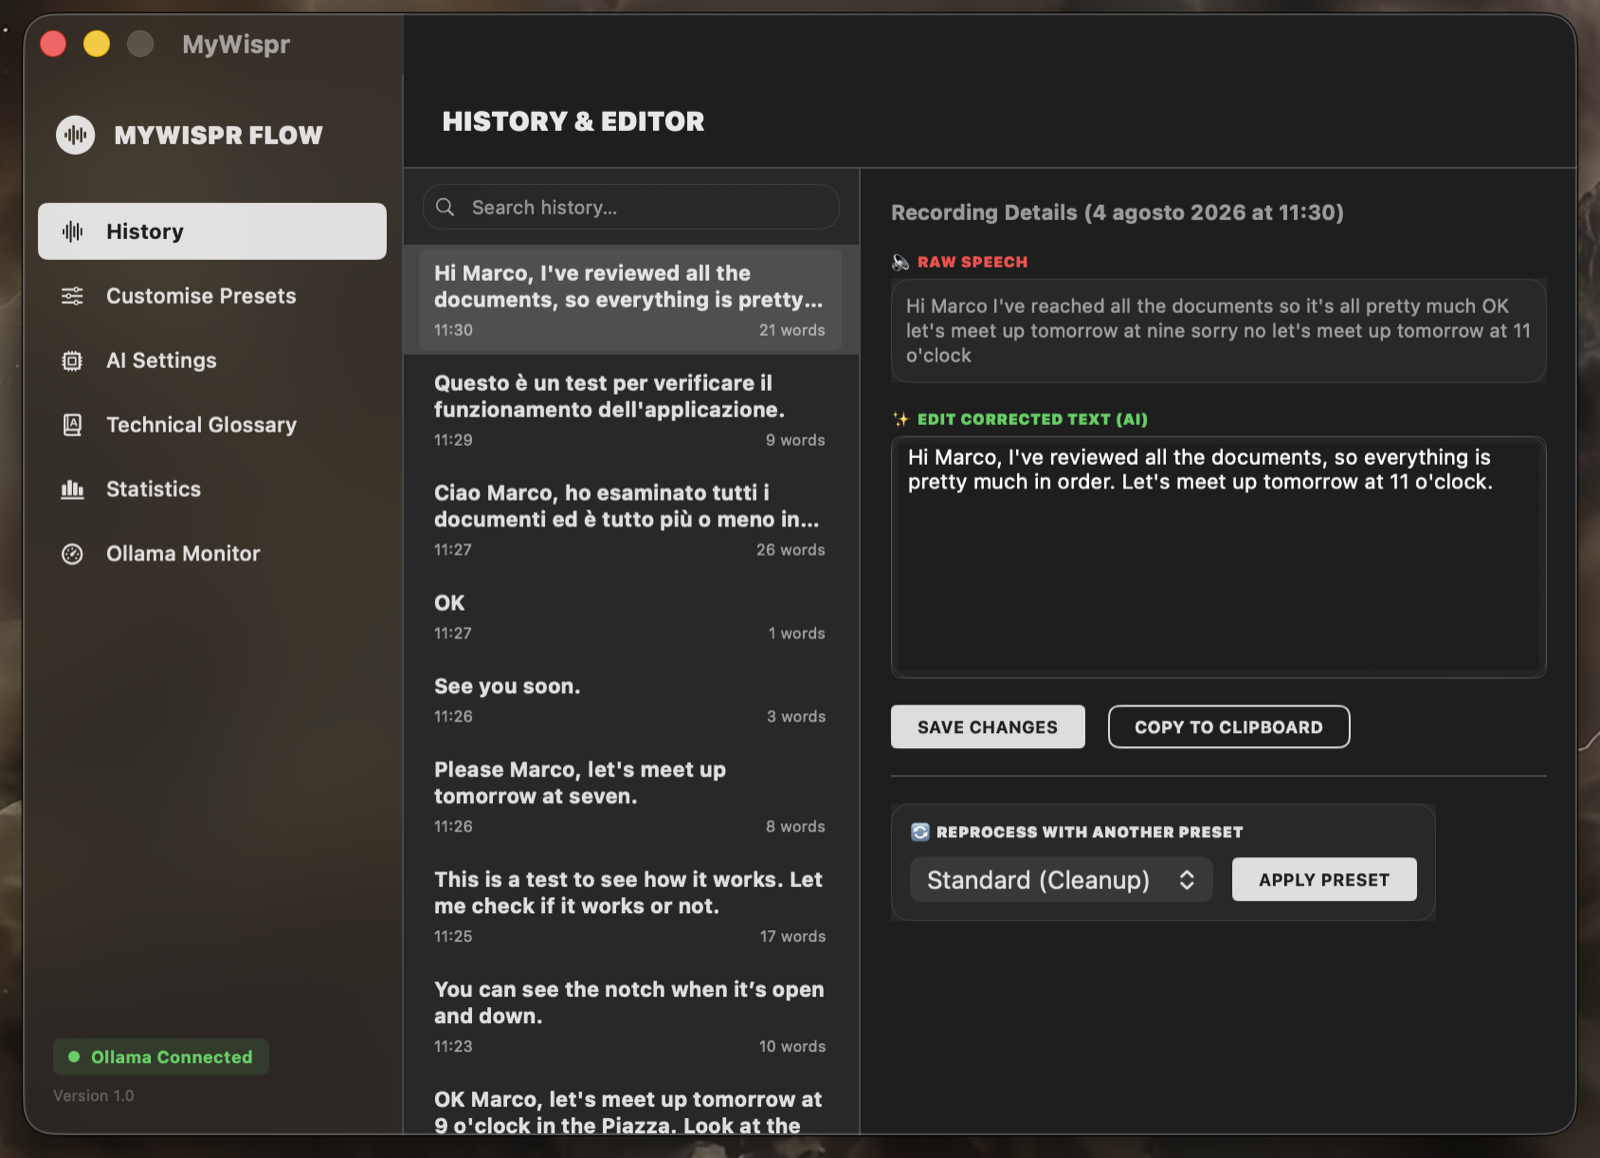
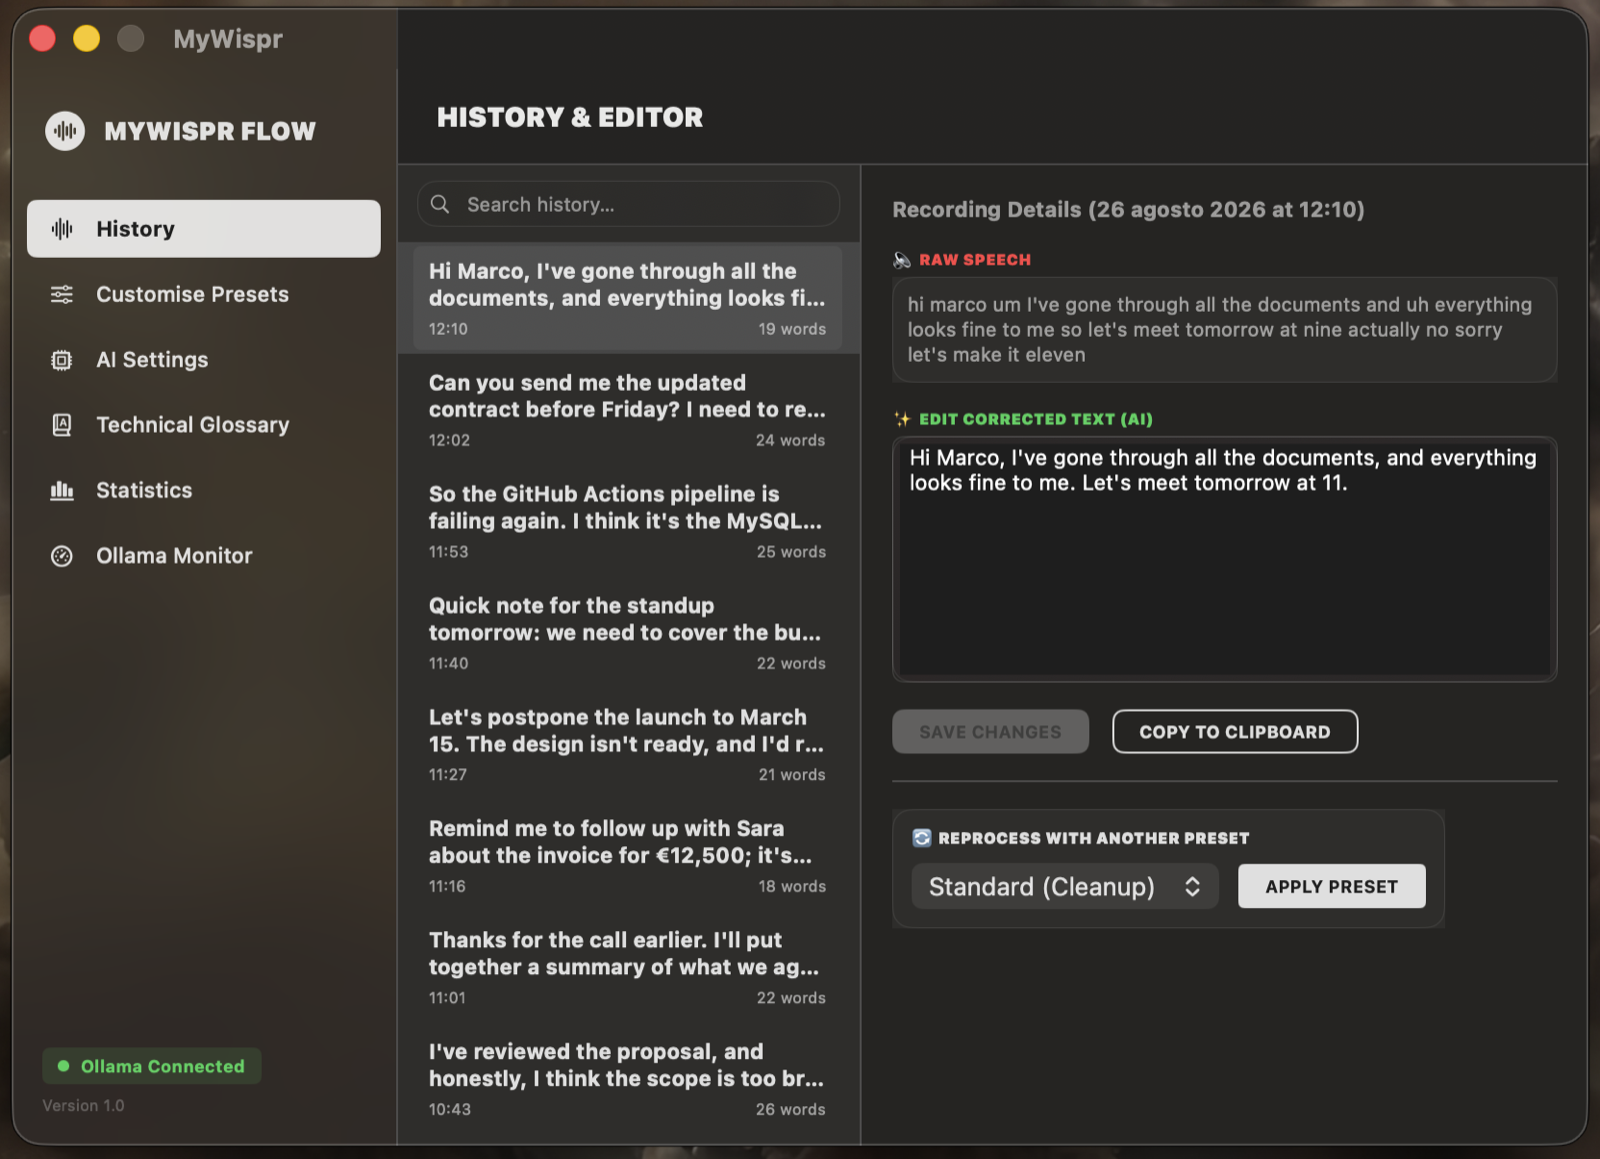
Use a screenshot that shows real work rather than test phrases
The previous capture's history was visibly a test session — "this is a test to
see how it works", "OK", the same phrase repeated in two languages. It read as a
demo of an unfinished thing rather than a tool in use.

The replacement shows eight plausible dictations: a contract chase, a failing
CI pipeline, standup notes, a postponed launch, an unpaid invoice. Across the
list the cleanup is visible without explanation — "get hub" resolved to GitHub,
"my sequel" to MySQL, "twelve thousand five hundred euros" to €12,500,
"fifteenth of march" to March 15.

Only the dictated inputs were chosen; every cleaned result is genuine output
from the real prompts, so the screenshot does not claim quality the app lacks.

diff --git a/README.md b/README.md
@@ -25,9 +25,10 @@ Hold a key, speak, release — your words land in any text field, already correc
 
 ![MyWispr dashboard — raw speech beside the AI-cleaned text](docs/dashboard.png)
 
-*The History tab, dark mode. Left: what was actually said, mid-sentence correction and all.
-Right: what MyWispr pasted.* **"…tomorrow at nine, sorry no, let's meet up tomorrow at 11 o'clock"**
-*became* **"Let's meet up tomorrow at 11 o'clock."**
+*The History tab in dark mode. On the right, what was actually said next to what
+MyWispr pasted:* **"…let's meet tomorrow at nine, actually no sorry, let's make it eleven"**
+*became* **"Let's meet tomorrow at 11."** *— the hesitation removed and the correction
+resolved, not merely transcribed.*
 
 <!-- STILL TO ADD, before publishing:
 
